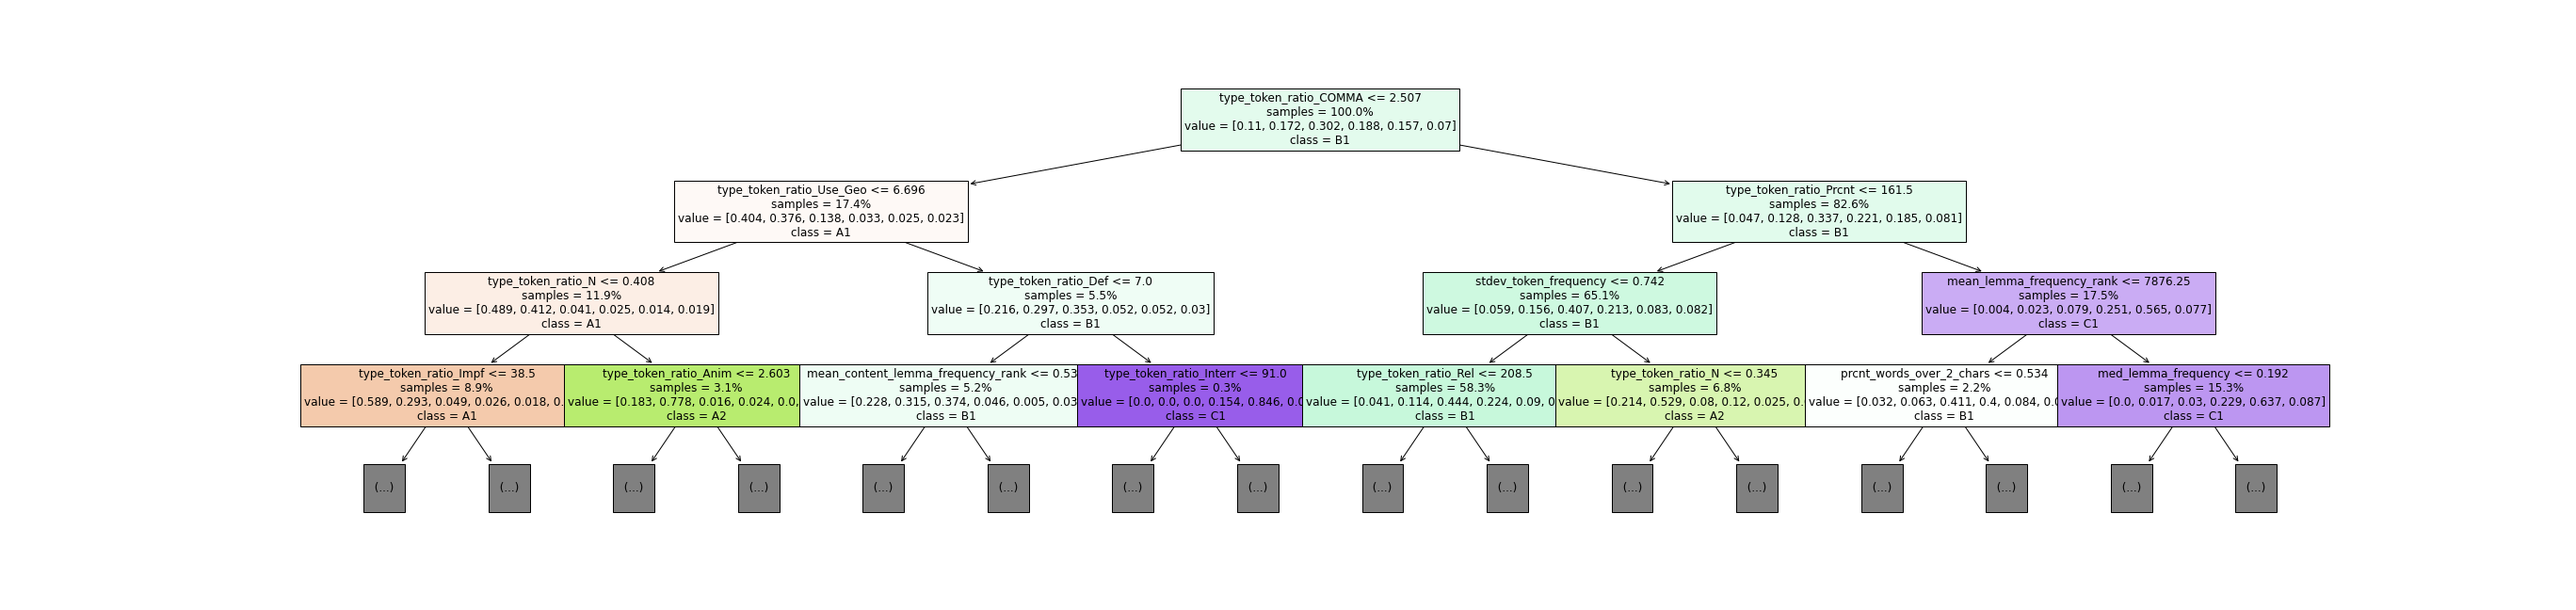
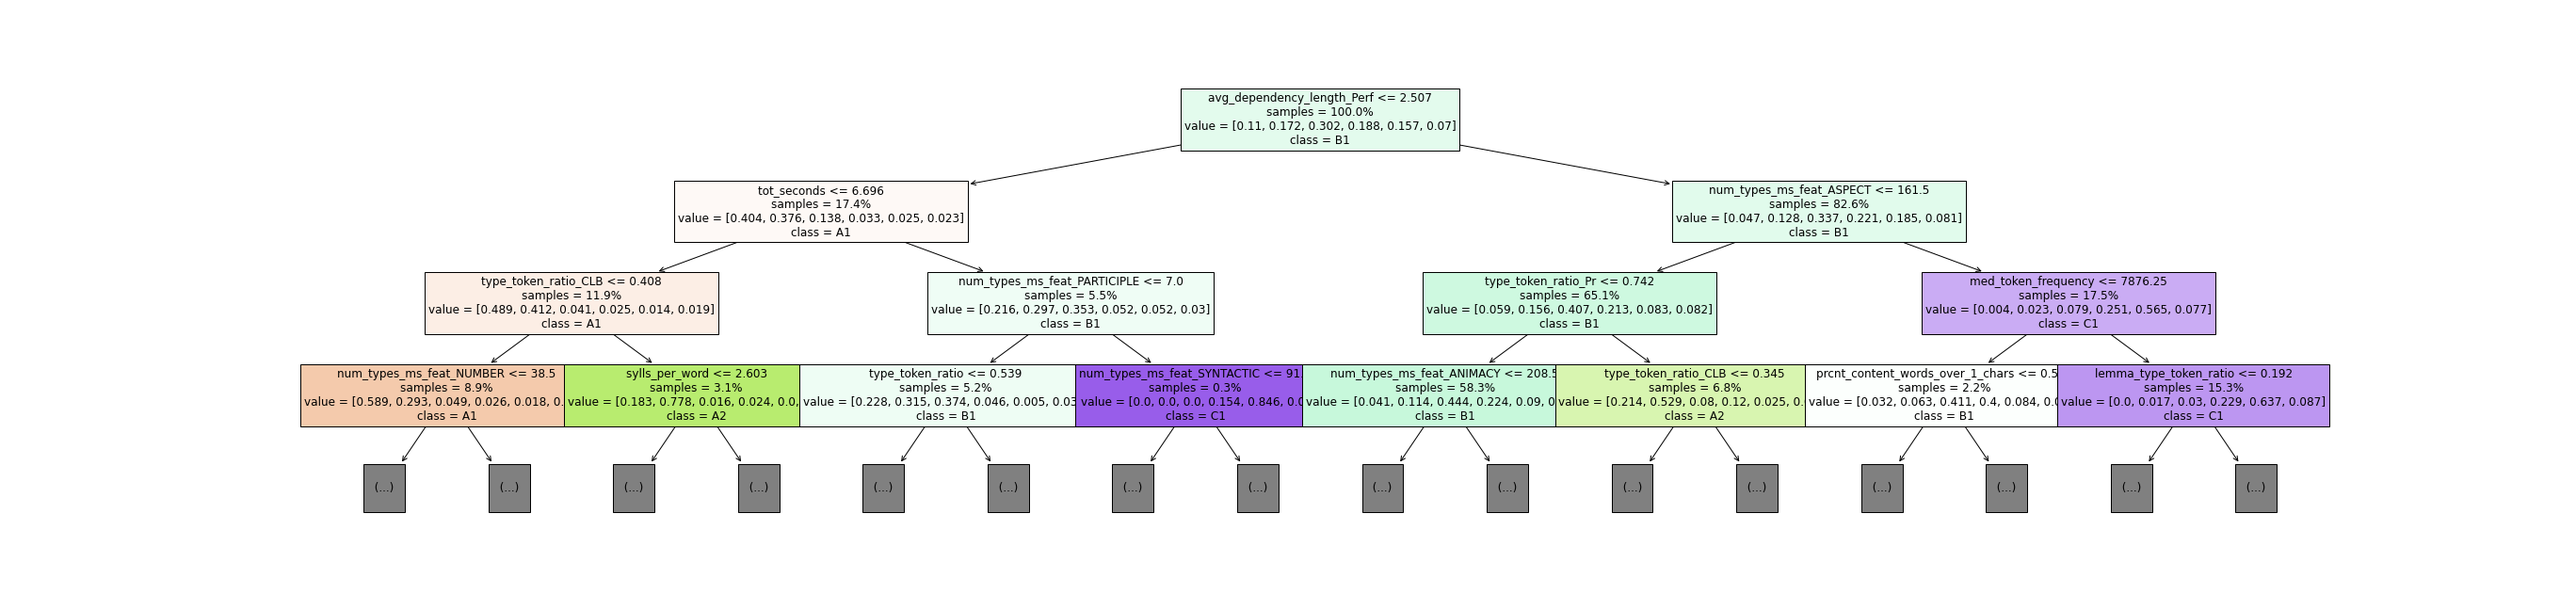
get colnames

diff --git a/modeling.py b/modeling.py
@@ -97,7 +97,10 @@ rf = RandomForestClassifier(max_features='sqrt', random_state=SEED)
 rf.fit(x_train,y_train)
 report(rf, rf.predict(x_test), y_test)
 report(rf, rf.predict(X), y)
-feat_select = SelectFromModel(rf, 0.002, prefit=True) 
+feat_select = SelectFromModel(rf, 0.002, prefit=True)
+colnames = X.columns[feat_select.get_support()]
+with open('colnames.txt', 'w') as f:
+    print('\n'.join(colnames), file=f)
 X_sub = feat_select.transform(X)
 print(X_sub.shape)
 x_sub_train, x_sub_test, y_train, y_test = train_test_split(X_sub,y,
@@ -110,7 +113,7 @@ report(rf, rf.predict(X_sub), y)
 jl.dump(rf, 'rf.joblib')
 
 fig, ax = plt.subplots(figsize=(38, 9))
-plot_tree(rf.estimators_[84], max_depth=3, feature_names=X.columns,
+plot_tree(rf.estimators_[84], max_depth=3, feature_names=colnames,
           filled=True, fontsize=12, impurity=False, proportion=True,
           class_names=labels)
 fig.savefig('tree.png')
